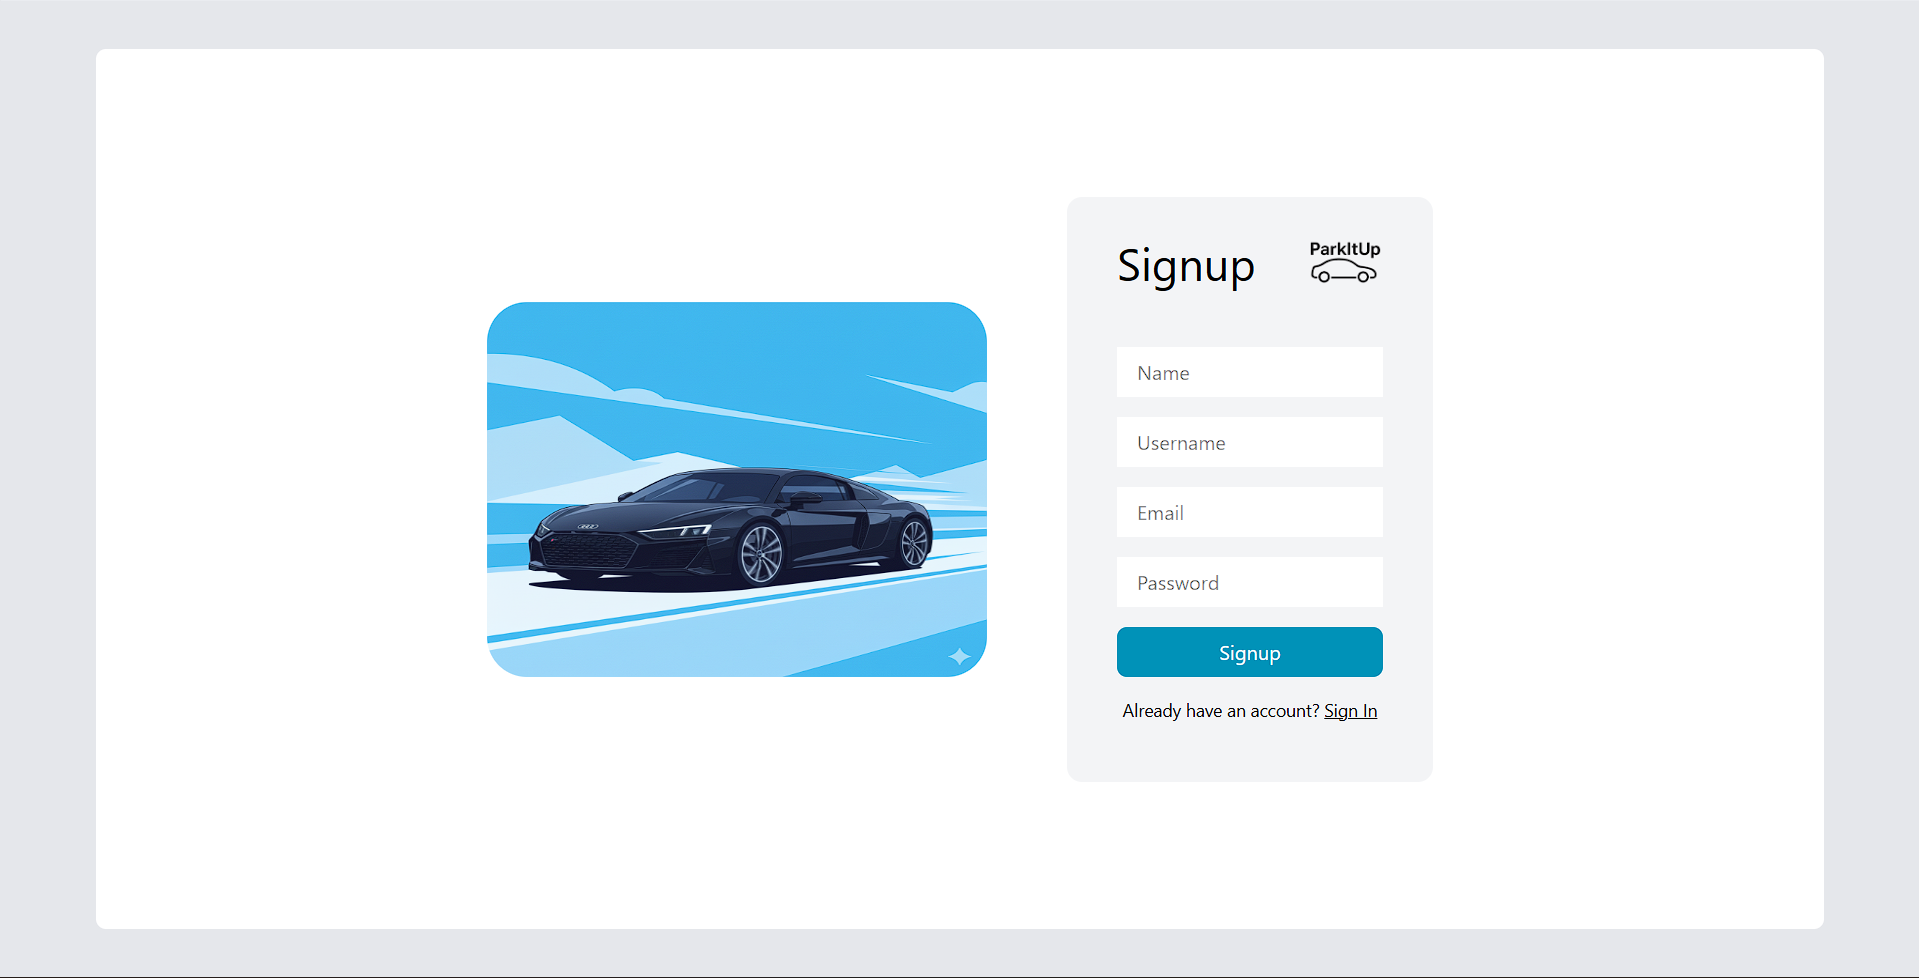
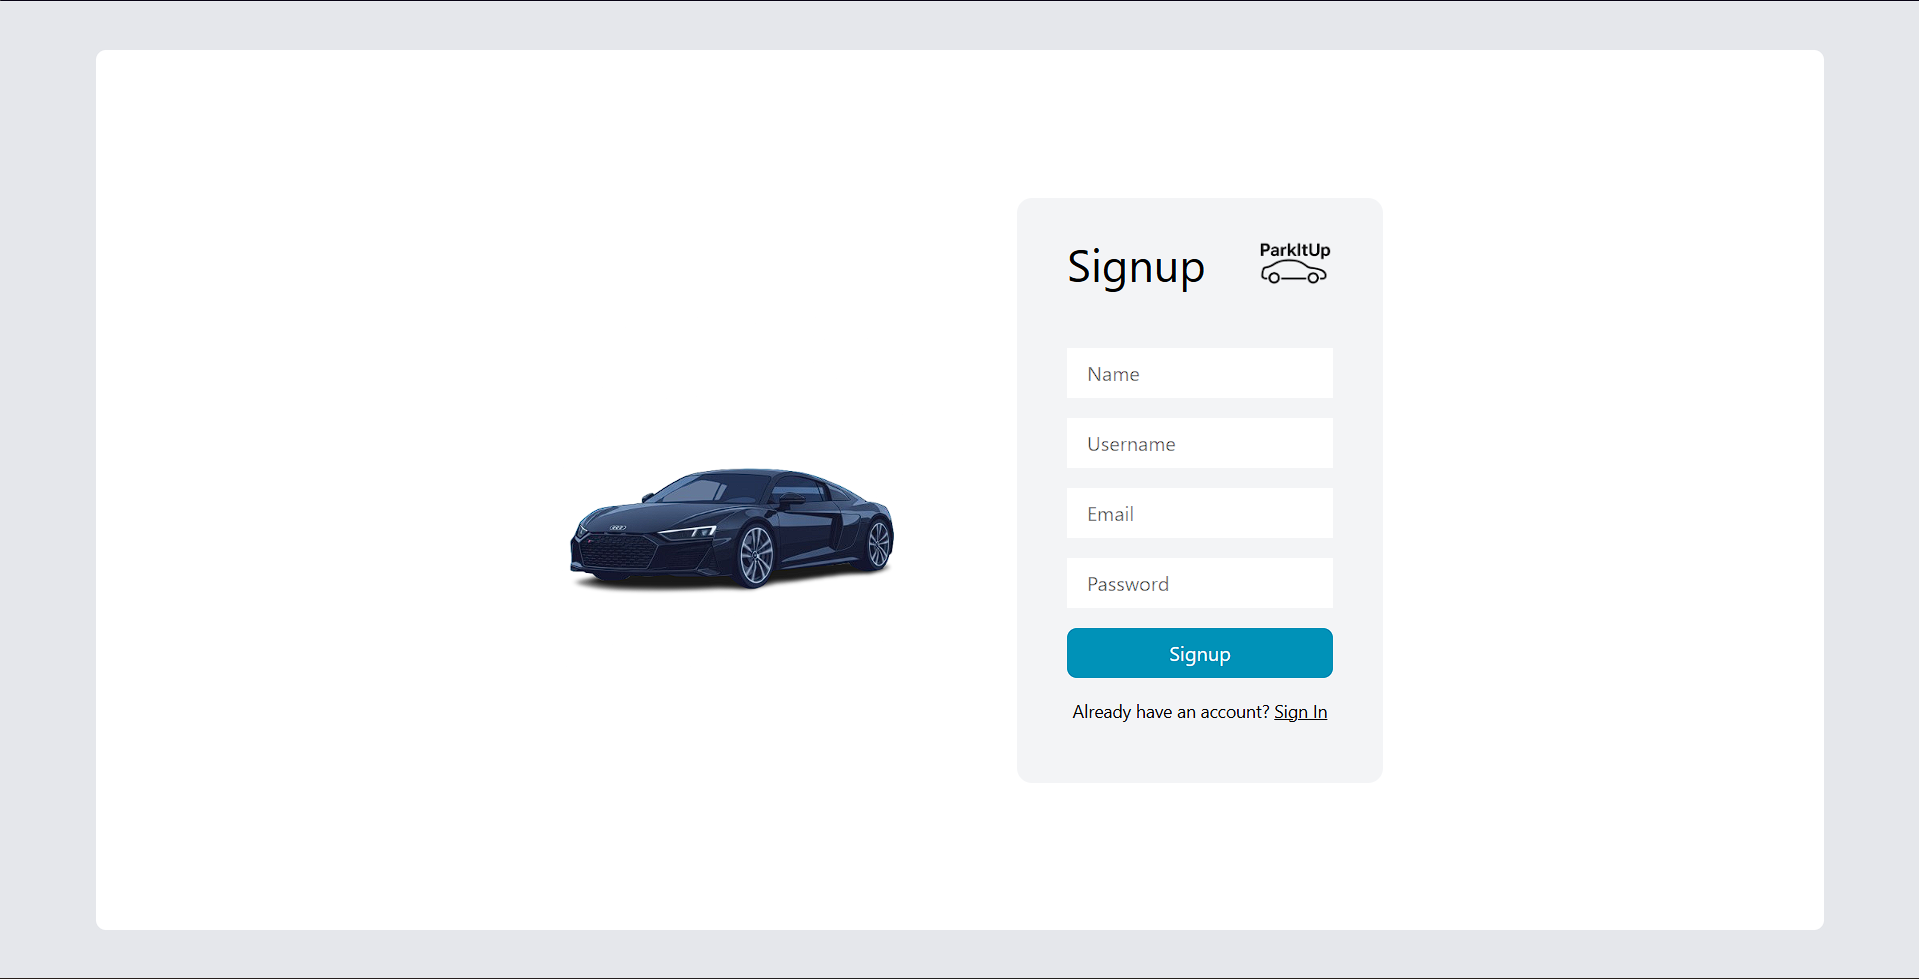
Minor changes made

diff --git a/client/src/pages/SignIn.jsx b/client/src/pages/SignIn.jsx
@@ -54,7 +54,7 @@ const SignIn = () => {
             {/* <div className="bg-white md:bg-blue-400 w-9/10 h-9/10 m-auto rounded-lg justify-center items-center flex"> */}
                 <div className="flex text-center md:gap-8 lg:gap-16 sm:flex-row sm:justify-center items-center m-auto md:w-215 py-10 px-5">
                     <div>
-                        <img src={car} className="hidden md:block md:w-90 lg:w-100 rounded-xl md:h-75 md:rounded-4xl"/>
+                        <img src={car} className="hidden md:block md:w-90 lg:w-80 rounded-xl md:h-75 md:rounded-4xl"/>
                     </div>
                     <div className='py-4 px-10 md:px-6 lg:px-10 rounded-xl bg-gray-100'>
                         <div className='flex justify-between items-center'>

diff --git a/client/src/pages/SignUp.jsx b/client/src/pages/SignUp.jsx
@@ -55,7 +55,7 @@ const SignUp = () => {
             {/* <div className="bg-white md:bg-blue-400 w-9/10 h-9/10 m-auto rounded-lg justify-center items-center flex"> */}
                 <div className="flex text-center md:gap-8 lg:gap-16 sm:flex-row sm:justify-center items-center m-auto md:w-215 py-10 px-5">
                     <div>
-                        <img src={car} className="hidden md:block md:w-90 lg:w-100 rounded-xl md:h-75 md:rounded-4xl"/>
+                        <img src={car} className="hidden md:block md:w-90 lg:w-80 rounded-xl md:h-75 md:rounded-4xl"/>
                     </div>
                     <div className='py-4 px-10 md:px-6 lg:px-10 rounded-xl bg-gray-100'>
                         <div className='flex justify-between items-center'>

diff --git a/client/src/routes/PublicRoute.jsx b/client/src/routes/PublicRoute.jsx
@@ -2,6 +2,7 @@ import { useState } from "react";
 import { useEffect } from "react";
 import { profile } from "../services/profileAPI";
 import { Navigate } from "react-router";
+import image  from "../assets/loading.png"
 
 const PublicRoute = ({ children }) => {
     const [user, setUser] = useState(false);
@@ -24,6 +25,7 @@ const PublicRoute = ({ children }) => {
     if(loading){
         return(
             <div className="text-4xl flex flex-col justify-center items-center h-screen">
+                <img src={image} className="w-40 h-20"/>
                 <p> Loading... </p>
             </div>
         )

diff --git a/client/src/routes/ProtectedRoute.jsx b/client/src/routes/ProtectedRoute.jsx
@@ -2,6 +2,8 @@ import { useState } from "react";
 import { useEffect } from "react";
 import { profile } from "../services/profileAPI";
 import { Navigate } from "react-router";
+import image  from "../assets/loading.png"
+
 
 const ProtectedRoute = ({children}) => {
     const [redirect, setRedirect] = useState(false);
@@ -25,6 +27,7 @@ const ProtectedRoute = ({children}) => {
     if(loading){
         return(
             <div className="text-4xl flex flex-col justify-center items-center h-screen">
+                <img src={image}/>
                 <p> Loading... </p>
             </div>
         )

diff --git a/client/src/routes/AdminRoute.jsx b/client/src/routes/AdminRoute.jsx
@@ -2,6 +2,7 @@ import { useState } from "react";
 import { useEffect } from "react";
 import { profile } from "../services/profileAPI";
 import { Navigate } from "react-router";
+import image  from "../assets/loading.png"
 
 const AdminRoute = ({children}) => {
     const [admin, setAdmin] = useState(false);
@@ -31,6 +32,7 @@ const AdminRoute = ({children}) => {
     if(loading){
         return(
             <div className="text-4xl flex flex-col justify-center items-center h-screen">
+                <img src={image}/>
                 <p> Loading... </p>
             </div>
         )
